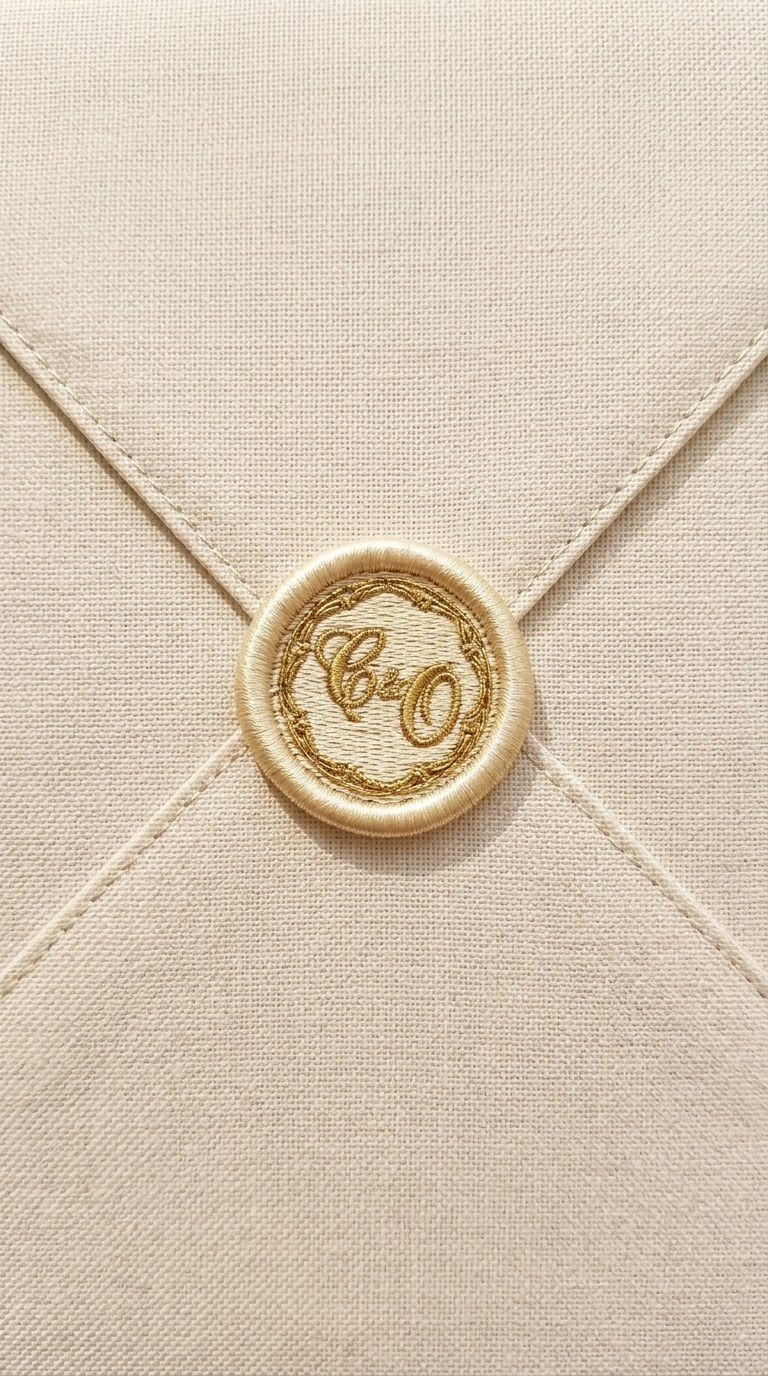
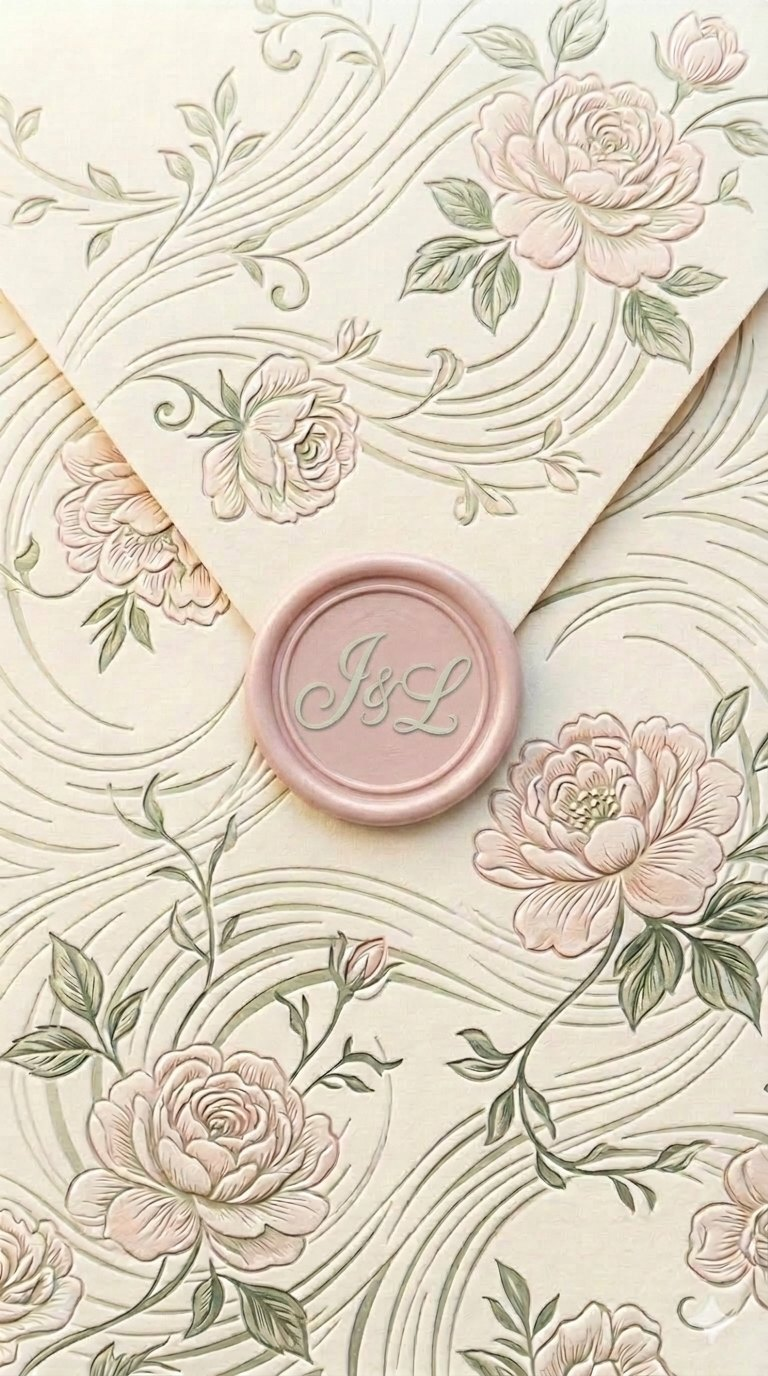
feat: sobre J&L (imagen + video), OG del sello y feed de Instagram en un solo marco

diff --git a/index.html b/index.html
@@ -9,7 +9,7 @@
   <meta property="og:type" content="website">
   <meta property="og:title" content="Johanna &amp; Leonardo · 20 · Febrero · 2027">
   <meta property="og:description" content="Nos casamos. Tequesquitengo, Morelos. Confirma tu asistencia.">
-  <meta property="og:image" content="https://boda-johanna-y-leonardo.vercel.app/og.jpg?v=1">
+  <meta property="og:image" content="https://boda-johanna-y-leonardo.vercel.app/og.jpg?v=2">
   <meta name="twitter:card" content="summary_large_image">
   <link rel="preconnect" href="https://fonts.googleapis.com">
   <link rel="preconnect" href="https://fonts.gstatic.com" crossorigin>
@@ -3096,6 +3096,26 @@ body > section, body > footer{overflow-x:clip}
 @keyframes ornLive{0%,100%{translate:0 0;rotate:0deg}30%{translate:3px -8px;rotate:3deg}65%{translate:-3px -4px;rotate:-3deg}}
 @media(prefers-reduced-motion:reduce){.orn-live{animation:none!important}}
 
+/* ═══ Feed de Instagram en un solo marco ═══ */
+.ig-wrap{margin-top:40px}
+.ig-phone{position:relative;width:min(330px,88vw);margin:0 auto;border-radius:30px;padding:10px 10px 14px;background:#fff;
+  border:1px solid rgba(184,146,74,.55);box-shadow:0 22px 50px -14px rgba(44,58,30,.35),inset 0 0 0 6px #FFF6EC}
+.ig-bar{display:flex;align-items:center;justify-content:space-between;padding:8px 12px 10px;border-bottom:1px solid #efefef}
+.ig-logo{font-family:'Pinyon Script',cursive;font-size:28px;line-height:1;color:#262626}
+.ig-bar-ic{display:flex;gap:14px;color:#262626}
+.ig-bar-ic svg{width:22px;height:22px}
+.ig-viewport{position:relative;overflow:hidden;border-radius:0 0 18px 18px;touch-action:pan-y}
+.ig-track{display:flex!important;flex-direction:column;gap:0!important;padding:0!important;overflow:visible!important;scroll-snap-type:none!important;
+  transition:transform .9s cubic-bezier(.65,0,.25,1);will-change:transform}
+.ig-post{flex:0 0 auto!important;width:100%!important;border:none!important;border-radius:0!important;box-shadow:none!important;opacity:.35;transition:opacity .6s}
+.ig-post.cur{opacity:1}
+.ig-nav{position:absolute;right:-16px;width:36px;height:36px;border-radius:50%;border:1px solid rgba(184,146,74,.6);background:#FFF6EC;color:var(--peach);
+  display:flex;align-items:center;justify-content:center;cursor:pointer;padding:0;box-shadow:0 4px 12px rgba(44,58,30,.18)}
+.ig-nav svg{width:18px;height:18px;fill:none;stroke:currentColor;stroke-width:2;stroke-linecap:round;stroke-linejoin:round}
+.ig-nav.prev{top:38%}.ig-nav.next{top:calc(38% + 46px)}
+.ig-dots{margin-top:14px!important}
+@media(prefers-reduced-motion:reduce){.ig-track{transition:none}}
+
   </style>
 </head>
 <body>
@@ -3121,8 +3141,8 @@ body > section, body > footer{overflow-x:clip}
 
 <!-- ═══════════════ SOBRE DE APERTURA ═══════════════ -->
 <div id="envelope-screen">
-  <img id="envImage" src="sobre.jpg" alt="Sobre de invitación de Johanna y Leonardo">
-  <video id="envVideo" src="https://bsjoelxktbvlavfoozhk.supabase.co/storage/v1/object/public/fotos-clientes/audio/boda-ciro-y-osmara/sobre-apertura.mp4" muted playsinline preload="auto" poster="sobre.jpg"></video>
+  <img id="envImage" src="sobre.jpg?v=2" alt="Sobre de invitación de Johanna y Leonardo">
+  <video id="envVideo" src="https://bsjoelxktbvlavfoozhk.supabase.co/storage/v1/object/public/fotos-clientes/audio/boda-johanna-y-leonardo/sobre-apertura.mp4" muted playsinline preload="auto" poster="sobre.jpg?v=2"></video>
   <div class="env-tap" id="envTap">Toca para abrir</div>
 </div>
 
@@ -3670,6 +3690,9 @@ body > section, body > footer{overflow-x:clip}
 
   <!-- Fotos estilo Instagram -->
   <div class="ig-wrap">
+    <div class="ig-phone">
+      <div class="ig-bar"><span class="ig-logo">Instagram</span><span class="ig-bar-ic" aria-hidden="true"><svg viewBox="0 0 24 24" fill="none" stroke="currentColor" stroke-width="1.9"><path d="M12 21s-7.5-4.6-9.6-9.3C.9 8.2 3 4.5 6.6 4.5c2.1 0 3.6 1.2 4.4 2.6.8-1.4 2.3-2.6 4.4-2.6 3.6 0 5.7 3.7 4.2 7.2C19.5 16.4 12 21 12 21z"/></svg><svg viewBox="0 0 24 24" fill="none" stroke="currentColor" stroke-width="1.9" stroke-linejoin="round"><path d="M22 3 9.2 10.1M22 3l-7 18-3.8-8.9L2 9.1 22 3z"/></svg></span></div>
+      <div class="ig-viewport" id="igViewport">
     <div class="ig-track" id="igTrack">
       <article class="ig-post"><header class="ig-head"><span class="ig-av"><img src="avatar.jpg" alt=""></span><span class="ig-user"><b>johanna.y.leonardo</b><small>Tequesquitengo, Morelos</small></span><span class="ig-more" aria-hidden="true">···</span></header><div class="ig-photo"><img src="ig1.jpg" alt="Johanna y Leonardo" loading="lazy"><svg class="ig-big" viewBox="0 0 24 24"><path fill="#fff" d="M12 21s-7.5-4.6-9.6-9.3C.9 8.2 3 4.5 6.6 4.5c2.1 0 3.6 1.2 4.4 2.6.8-1.4 2.3-2.6 4.4-2.6 3.6 0 5.7 3.7 4.2 7.2C19.5 16.4 12 21 12 21z"/></svg></div><div class="ig-acts"><button type="button" class="ig-like" aria-label="Me gusta"><svg viewBox="0 0 24 24" fill="none" stroke="currentColor" stroke-width="1.9"><path d="M12 21s-7.5-4.6-9.6-9.3C.9 8.2 3 4.5 6.6 4.5c2.1 0 3.6 1.2 4.4 2.6.8-1.4 2.3-2.6 4.4-2.6 3.6 0 5.7 3.7 4.2 7.2C19.5 16.4 12 21 12 21z"/></svg></button><button type="button" aria-label="Comentar"><svg viewBox="0 0 24 24" fill="none" stroke="currentColor" stroke-width="1.9" stroke-linejoin="round"><path d="M20.7 16.5A9 9 0 1 0 17 20l4 1-0.3-4.5z"/></svg></button><button type="button" aria-label="Compartir"><svg viewBox="0 0 24 24" fill="none" stroke="currentColor" stroke-width="1.9" stroke-linejoin="round"><path d="M22 3 9.2 10.1M22 3l-7 18-3.8-8.9L2 9.1 22 3z"/></svg></button><button type="button" class="ig-save" aria-label="Guardar"><svg viewBox="0 0 24 24" fill="none" stroke="currentColor" stroke-width="1.9" stroke-linejoin="round"><path d="M19 21l-7-5-7 5V4a1 1 0 0 1 1-1h12a1 1 0 0 1 1 1z"/></svg></button></div><p class="ig-likes">Les gusta a <b>248</b> personas</p><p class="ig-cap"><b>johanna.y.leonardo</b>Dijimos que sí, y lo volveríamos a decir mil veces.</p><p class="ig-date">20 de febrero de 2027</p></article>
       <article class="ig-post"><header class="ig-head"><span class="ig-av"><img src="avatar.jpg" alt=""></span><span class="ig-user"><b>johanna.y.leonardo</b><small>Tequesquitengo, Morelos</small></span><span class="ig-more" aria-hidden="true">···</span></header><div class="ig-photo"><img src="ig2.jpg" alt="Johanna y Leonardo" loading="lazy"><svg class="ig-big" viewBox="0 0 24 24"><path fill="#fff" d="M12 21s-7.5-4.6-9.6-9.3C.9 8.2 3 4.5 6.6 4.5c2.1 0 3.6 1.2 4.4 2.6.8-1.4 2.3-2.6 4.4-2.6 3.6 0 5.7 3.7 4.2 7.2C19.5 16.4 12 21 12 21z"/></svg></div><div class="ig-acts"><button type="button" class="ig-like" aria-label="Me gusta"><svg viewBox="0 0 24 24" fill="none" stroke="currentColor" stroke-width="1.9"><path d="M12 21s-7.5-4.6-9.6-9.3C.9 8.2 3 4.5 6.6 4.5c2.1 0 3.6 1.2 4.4 2.6.8-1.4 2.3-2.6 4.4-2.6 3.6 0 5.7 3.7 4.2 7.2C19.5 16.4 12 21 12 21z"/></svg></button><button type="button" aria-label="Comentar"><svg viewBox="0 0 24 24" fill="none" stroke="currentColor" stroke-width="1.9" stroke-linejoin="round"><path d="M20.7 16.5A9 9 0 1 0 17 20l4 1-0.3-4.5z"/></svg></button><button type="button" aria-label="Compartir"><svg viewBox="0 0 24 24" fill="none" stroke="currentColor" stroke-width="1.9" stroke-linejoin="round"><path d="M22 3 9.2 10.1M22 3l-7 18-3.8-8.9L2 9.1 22 3z"/></svg></button><button type="button" class="ig-save" aria-label="Guardar"><svg viewBox="0 0 24 24" fill="none" stroke="currentColor" stroke-width="1.9" stroke-linejoin="round"><path d="M19 21l-7-5-7 5V4a1 1 0 0 1 1-1h12a1 1 0 0 1 1 1z"/></svg></button></div><p class="ig-likes">Les gusta a <b>196</b> personas</p><p class="ig-cap"><b>johanna.y.leonardo</b>Bailar contigo, aunque no haya música.</p><p class="ig-date">Save the date</p></article>
@@ -3678,8 +3701,12 @@ body > section, body > footer{overflow-x:clip}
       <article class="ig-post"><header class="ig-head"><span class="ig-av"><img src="avatar.jpg" alt=""></span><span class="ig-user"><b>johanna.y.leonardo</b><small>Tequesquitengo, Morelos</small></span><span class="ig-more" aria-hidden="true">···</span></header><div class="ig-photo"><img src="ig5.jpg" alt="Johanna y Leonardo" loading="lazy"><svg class="ig-big" viewBox="0 0 24 24"><path fill="#fff" d="M12 21s-7.5-4.6-9.6-9.3C.9 8.2 3 4.5 6.6 4.5c2.1 0 3.6 1.2 4.4 2.6.8-1.4 2.3-2.6 4.4-2.6 3.6 0 5.7 3.7 4.2 7.2C19.5 16.4 12 21 12 21z"/></svg></div><div class="ig-acts"><button type="button" class="ig-like" aria-label="Me gusta"><svg viewBox="0 0 24 24" fill="none" stroke="currentColor" stroke-width="1.9"><path d="M12 21s-7.5-4.6-9.6-9.3C.9 8.2 3 4.5 6.6 4.5c2.1 0 3.6 1.2 4.4 2.6.8-1.4 2.3-2.6 4.4-2.6 3.6 0 5.7 3.7 4.2 7.2C19.5 16.4 12 21 12 21z"/></svg></button><button type="button" aria-label="Comentar"><svg viewBox="0 0 24 24" fill="none" stroke="currentColor" stroke-width="1.9" stroke-linejoin="round"><path d="M20.7 16.5A9 9 0 1 0 17 20l4 1-0.3-4.5z"/></svg></button><button type="button" aria-label="Compartir"><svg viewBox="0 0 24 24" fill="none" stroke="currentColor" stroke-width="1.9" stroke-linejoin="round"><path d="M22 3 9.2 10.1M22 3l-7 18-3.8-8.9L2 9.1 22 3z"/></svg></button><button type="button" class="ig-save" aria-label="Guardar"><svg viewBox="0 0 24 24" fill="none" stroke="currentColor" stroke-width="1.9" stroke-linejoin="round"><path d="M19 21l-7-5-7 5V4a1 1 0 0 1 1-1h12a1 1 0 0 1 1 1z"/></svg></button></div><p class="ig-likes">Les gusta a <b>187</b> personas</p><p class="ig-cap"><b>johanna.y.leonardo</b>Tú, yo y un “para siempre”.</p><p class="ig-date">Save the date</p></article>
       <article class="ig-post"><header class="ig-head"><span class="ig-av"><img src="avatar.jpg" alt=""></span><span class="ig-user"><b>johanna.y.leonardo</b><small>Tequesquitengo, Morelos</small></span><span class="ig-more" aria-hidden="true">···</span></header><div class="ig-photo"><img src="ig6.jpg" alt="Johanna y Leonardo" loading="lazy"><svg class="ig-big" viewBox="0 0 24 24"><path fill="#fff" d="M12 21s-7.5-4.6-9.6-9.3C.9 8.2 3 4.5 6.6 4.5c2.1 0 3.6 1.2 4.4 2.6.8-1.4 2.3-2.6 4.4-2.6 3.6 0 5.7 3.7 4.2 7.2C19.5 16.4 12 21 12 21z"/></svg></div><div class="ig-acts"><button type="button" class="ig-like" aria-label="Me gusta"><svg viewBox="0 0 24 24" fill="none" stroke="currentColor" stroke-width="1.9"><path d="M12 21s-7.5-4.6-9.6-9.3C.9 8.2 3 4.5 6.6 4.5c2.1 0 3.6 1.2 4.4 2.6.8-1.4 2.3-2.6 4.4-2.6 3.6 0 5.7 3.7 4.2 7.2C19.5 16.4 12 21 12 21z"/></svg></button><button type="button" aria-label="Comentar"><svg viewBox="0 0 24 24" fill="none" stroke="currentColor" stroke-width="1.9" stroke-linejoin="round"><path d="M20.7 16.5A9 9 0 1 0 17 20l4 1-0.3-4.5z"/></svg></button><button type="button" aria-label="Compartir"><svg viewBox="0 0 24 24" fill="none" stroke="currentColor" stroke-width="1.9" stroke-linejoin="round"><path d="M22 3 9.2 10.1M22 3l-7 18-3.8-8.9L2 9.1 22 3z"/></svg></button><button type="button" class="ig-save" aria-label="Guardar"><svg viewBox="0 0 24 24" fill="none" stroke="currentColor" stroke-width="1.9" stroke-linejoin="round"><path d="M19 21l-7-5-7 5V4a1 1 0 0 1 1-1h12a1 1 0 0 1 1 1z"/></svg></button></div><p class="ig-likes">Les gusta a <b>230</b> personas</p><p class="ig-cap"><b>johanna.y.leonardo</b>Cuenta regresiva para el 20 de febrero. ¡Los esperamos!</p><p class="ig-date">Save the date</p></article>
     </div>
+      </div>
+      <button type="button" class="ig-nav prev" id="igPrev" aria-label="Publicación anterior"><svg viewBox="0 0 24 24"><polyline points="18 15 12 9 6 15"/></svg></button>
+      <button type="button" class="ig-nav next" id="igNext" aria-label="Publicación siguiente"><svg viewBox="0 0 24 24"><polyline points="6 9 12 15 18 9"/></svg></button>
+    </div>
     <div class="ig-dots" id="igDots"></div>
-    <p class="gal-hint">Desliza · toca dos veces para dar like</p>
+    <p class="gal-hint">El feed avanza solo · toca dos veces una foto para dar like</p>
   </div>
 </section>
 
@@ -4421,8 +4448,8 @@ function scrollAnims() {
   });
 
   // Instagram — fotos que se revelan
-  gsap.from('.ig-post', {
-    opacity: 0, y: 40, duration: .8, stagger: .12, ease,
+  gsap.from('.ig-phone', {
+    opacity: 0, y: 40, duration: .9, ease,
     scrollTrigger: { trigger: '.ig-wrap', start: 'top 85%', once: true }
   });
 
@@ -5487,30 +5514,54 @@ function toast(msg) {
       }).catch(() => {});
   })();
 
-  /* ── Fotos tipo Instagram ── */
+  /* ── Feed tipo Instagram: los posts van saliendo dentro del mismo marco ── */
   (function(){
-    const tr = document.getElementById('igTrack'); if (!tr) return;
+    const vp = document.getElementById('igViewport'), tr = document.getElementById('igTrack'); if (!tr) return;
     const posts = [...tr.querySelectorAll('.ig-post')];
     const dots = document.getElementById('igDots');
     posts.forEach(() => dots.appendChild(document.createElement('i')));
-    function mark(){
-      const c = tr.scrollLeft + tr.clientWidth / 2; let best = 0, bd = 1e9;
-      posts.forEach((p, i) => { const m = p.offsetLeft + p.offsetWidth / 2; const dd = Math.abs(m - c); if (dd < bd) { bd = dd; best = i; } });
-      [...dots.children].forEach((d, i) => d.classList.toggle('on', i === best));
+    let k = 0, timer = null, visible = false, hold = 0;
+    function size(){
+      const h = Math.max(...posts.map(p => p.offsetHeight));
+      vp.style.height = h + 'px';
+      go(k, true);
     }
-    tr.addEventListener('scroll', mark, {passive:true}); mark();
+    function go(i, instant){
+      k = (i + posts.length) % posts.length;
+      tr.style.transition = instant ? 'none' : '';
+      tr.style.transform = 'translate3d(0,' + (-posts[k].offsetTop) + 'px,0)';
+      posts.forEach((p, j) => p.classList.toggle('cur', j === k));
+      [...dots.children].forEach((d, j) => d.classList.toggle('on', j === k));
+    }
+    function tick(){ if (visible && Date.now() > hold && !document.hidden) go(k + 1); }
+    function pause(){ hold = Date.now() + 6000; }
+    document.getElementById('igPrev').addEventListener('click', () => { pause(); go(k - 1); });
+    document.getElementById('igNext').addEventListener('click', () => { pause(); go(k + 1); });
+    let sx = 0, sy = 0;
+    vp.addEventListener('touchstart', e => { sx = e.touches[0].clientX; sy = e.touches[0].clientY; }, {passive: true});
+    vp.addEventListener('touchend', e => {
+      const dx = e.changedTouches[0].clientX - sx, dy = e.changedTouches[0].clientY - sy;
+      if (Math.abs(dx) > 40 && Math.abs(dx) > Math.abs(dy)) { pause(); go(k + (dx < 0 ? 1 : -1)); }
+    }, {passive: true});
     posts.forEach(p => {
       const ph = p.querySelector('.ig-photo'), lk = p.querySelector('.ig-like'), cnt = p.querySelector('.ig-likes b');
       const base = parseInt(cnt.textContent, 10);
       function setLike(on){ lk.classList.toggle('on', on); cnt.textContent = base + (on ? 1 : 0); }
-      lk.addEventListener('click', () => setLike(!lk.classList.contains('on')));
+      lk.addEventListener('click', () => { pause(); setLike(!lk.classList.contains('on')); });
       let last = 0;
       ph.addEventListener('click', () => {
+        pause();
         const n = Date.now();
         if (n - last < 350) { setLike(true); ph.classList.remove('pop'); void ph.offsetWidth; ph.classList.add('pop'); }
         last = n;
       });
     });
+    if ('IntersectionObserver' in window) new IntersectionObserver(es => es.forEach(e => { visible = e.isIntersecting; }), {threshold: .4}).observe(vp);
+    else visible = true;
+    window.addEventListener('resize', () => size());
+    posts.forEach(p => { const im = p.querySelector('.ig-photo img'); if (im && !im.complete) im.addEventListener('load', size, {once: true}); });
+    size();
+    if (!RM) timer = setInterval(tick, 3600);
   })();
 
   /* ── Hospedaje · carrusel de fotos + mapa Leaflet ── */
